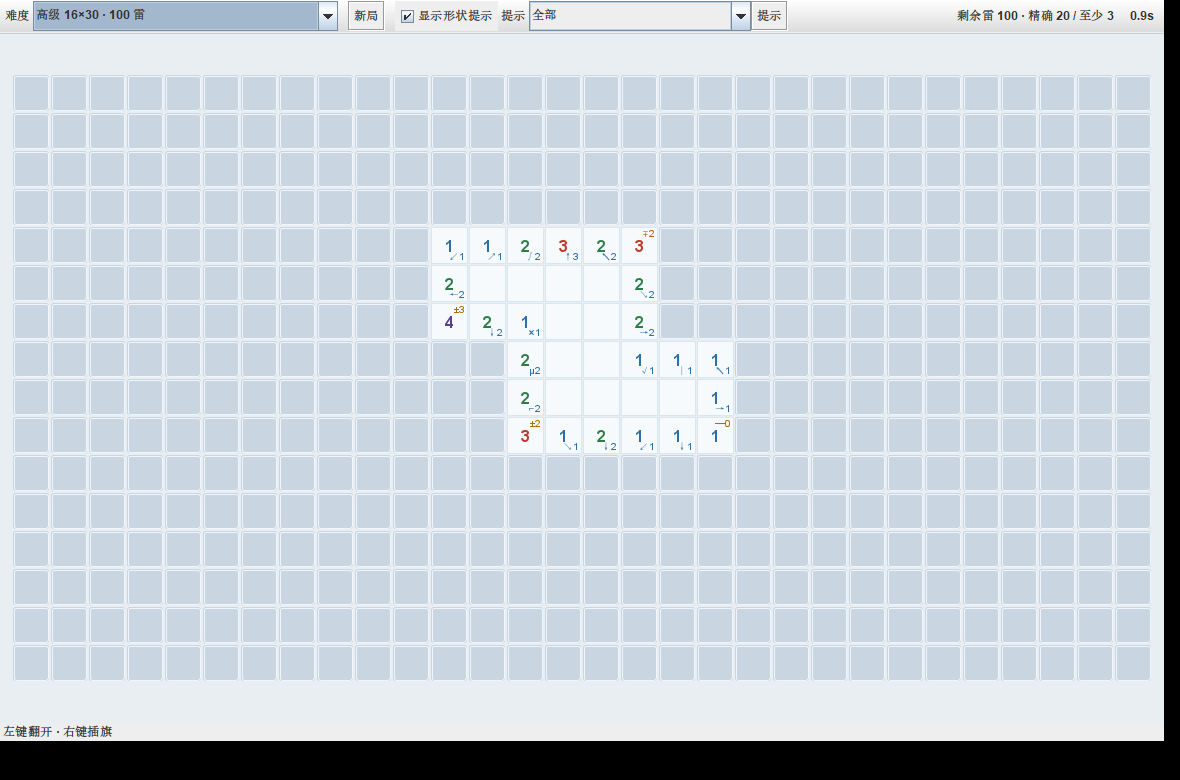
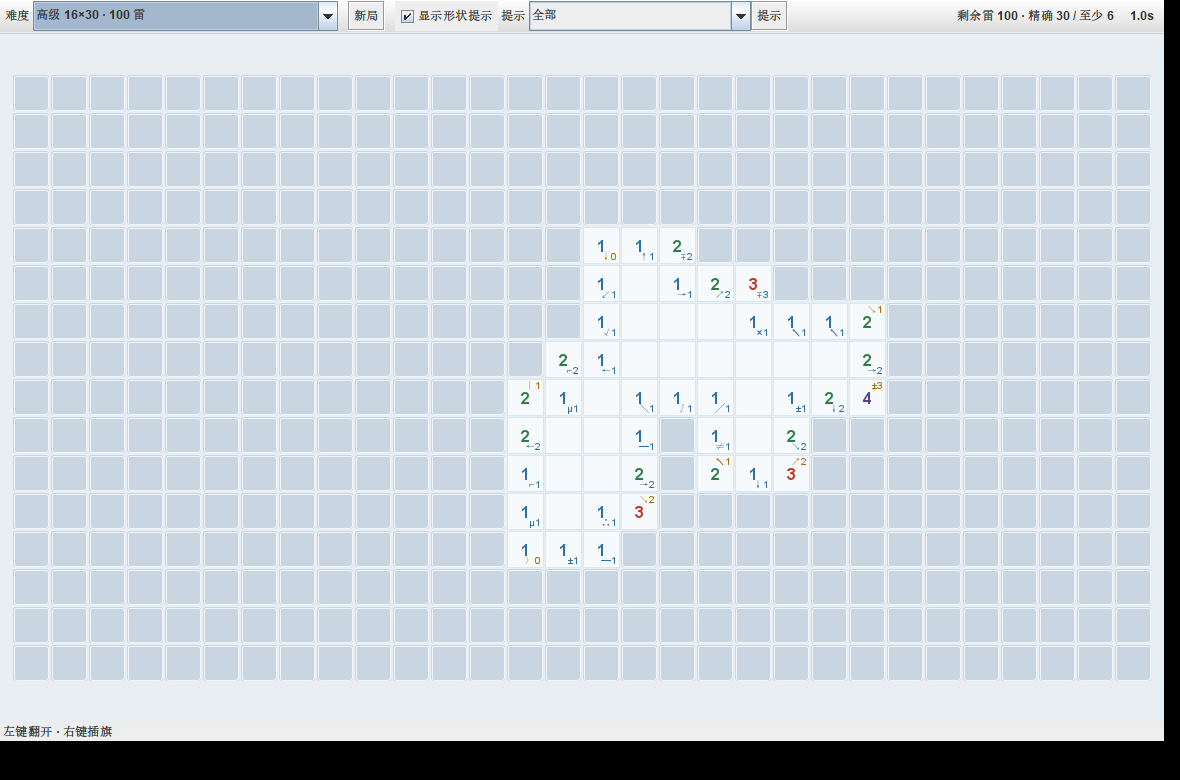
Put zero hints in the bottom right corner too
A 'at least 0' hint carries no information, so it should not sit where the real 'at least n' hints live. Both the exact value and the zero case now draw bottom right; the top right corner is left to hints that actually say something.

Changed region(s): [[0.3661, 0.2769, 0.7627, 0.7385]]

diff --git a/index.html b/index.html
@@ -625,8 +625,11 @@ function drawHints(){
     const txt=DISP[h.key]+h.lb;
     ctx.font=`${Math.max(6,Math.round(s*0.28))}px system-ui, sans-serif`;
     ctx.textAlign='right';
-    if(h.exact){
-      ctx.textBaseline='alphabetic'; ctx.fillStyle=h.trivial ? '#8aa7bd' : '#2f6fa8';
+    // 「共有 n 颗」和「至少 0 颗」都放右下角：0 颗没有信息量，不该占右上角，
+    // 右上角留给真正的「至少 n 颗」。
+    if(h.exact || h.lb===0){
+      ctx.textBaseline='alphabetic';
+      ctx.fillStyle = h.exact ? (h.trivial ? '#8aa7bd' : '#2f6fa8') : '#b06a00';
       ctx.fillText(txt, x+s-2, y+s-2);
     } else {
       ctx.textBaseline='top'; ctx.fillStyle='#b06a00';

diff --git a/src/Sweeper.java b/src/Sweeper.java
@@ -753,8 +753,11 @@ public class Sweeper extends JFrame {
                 int x = ox + c*cell, y = oy + r*cell;
                 String txt = DISP.get(h.key) + h.lb;
                 int tw = fm.stringWidth(txt);
-                if (h.exact) {
-                    g.setColor(new Color(0x2F, 0x6F, 0xA8));
+                // 「共有 n 颗」与「至少 0 颗」都放右下角：0 颗没有信息量，不该占右上角，
+                // 右上角留给真正的「至少 n 颗」。
+                if (h.exact || h.lb == 0) {
+                    if (h.exact) g.setColor(new Color(0x2F, 0x6F, 0xA8));
+                    else g.setColor(new Color(0xB0, 0x6A, 0x00));
                     g.drawString(txt, x + cell - tw - 3, y + cell - 4);
                 } else {
                     g.setColor(new Color(0xB0, 0x6A, 0x00));
